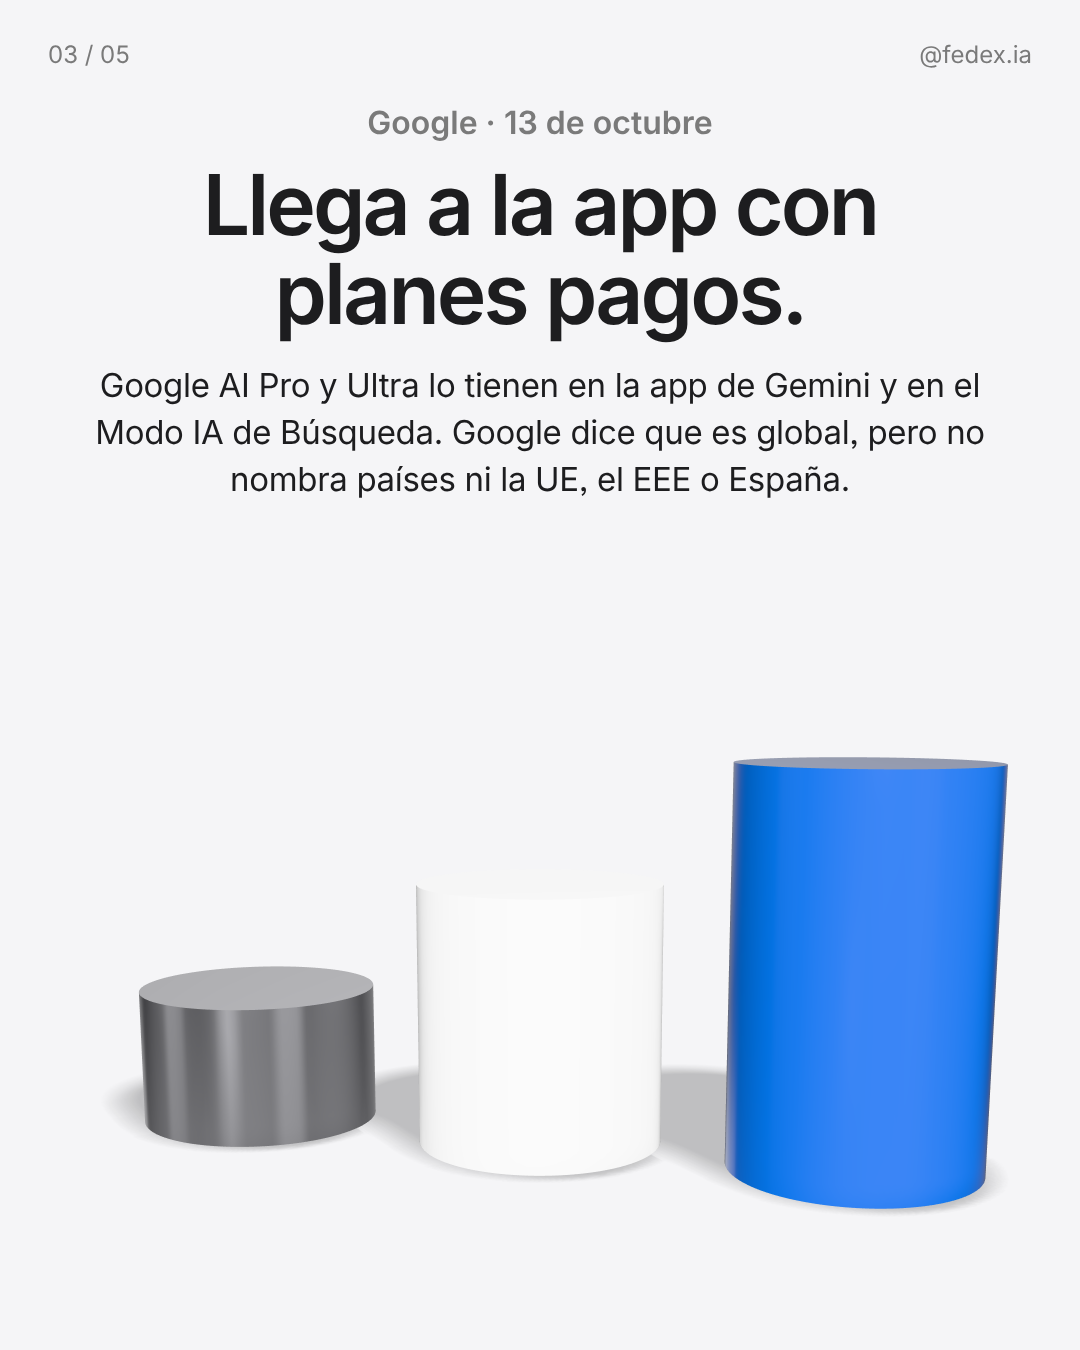
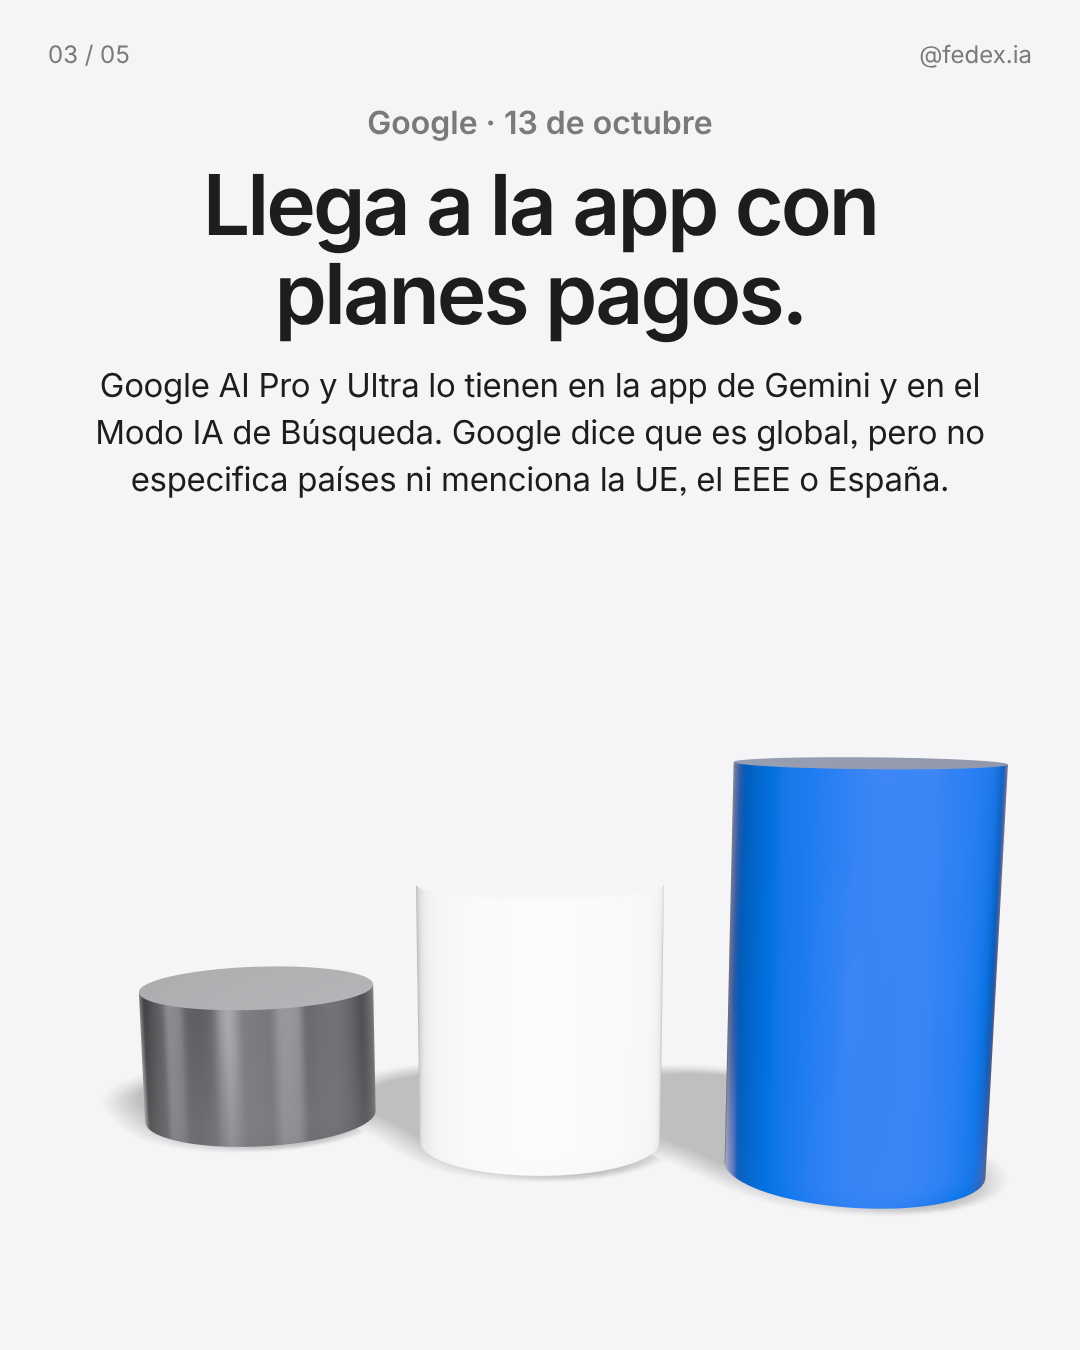
Borrador 2026-10-14: usar «no especifica países»
Claude-Session: https://claude.ai/code/session_01DW9iytVXTVn877P6QS77sb

Changed region(s): [[0.1222, 0.3422, 0.8861, 0.3733]]

diff --git a/diario/2026-10-14-diario-gemini-4-argon/copy.md b/diario/2026-10-14-diario-gemini-4-argon/copy.md
@@ -5,7 +5,7 @@ Estado: pendiente de aprobación
 ## Noticia base
 - Fecha del hecho: martes 13 de octubre de 2026 (fecha del anuncio oficial de Google). Argon ya había salido el 30 de septiembre solo para socios de ciberseguridad (Fairwind); el 13 es el lanzamiento amplio.
 - Qué es: Gemini 4 Argon, «el último modelo de frontera» de Google, pensado para «trabajo profundo» en código, finanzas, derecho, ciberseguridad y ciencia.
-- Disponibilidad: API (Google AI Studio y plataforma Gemini, nivel pago); Gemini para empresas y Antigravity (empresas y suscriptores Ultra); app de Gemini y Modo IA de Búsqueda para Google AI Pro y Ultra. Google dice «global» y no lista países ni menciona la UE, el EEE o España. Contexto de 1M de tokens por API.
+- Disponibilidad: API (Google AI Studio y plataforma Gemini, nivel pago); Gemini para empresas y Antigravity (empresas y suscriptores Ultra); app de Gemini y Modo IA de Búsqueda para Google AI Pro y Ultra. Google dice «global» y no especifica países ni menciona la UE, el EEE o España. Contexto de 1M de tokens por API.
 - Precio API: 2 USD entrada / 10 USD salida por millón de tokens como precio de lanzamiento; después del 30 de noviembre de 2026, 4 / 20.
 - Oficial: https://blog.google/innovation-and-ai/models-and-research/gemini-models/introducing-gemini-4-argon/
 - Prensa: https://tech.slashdot.org/story/26/10/13/1643231/google-launches-flagship-ai-model-gemini-4-argon (reproduce la nota de Reuters)
@@ -17,16 +17,16 @@ Estado: pendiente de aprobación
 ## Slides
 1. Portada (blanco). Google lanzó su mejor modelo. Bajada: Gemini 4 Argon: quién puede usarlo y cuánto cuesta. Pastillas: Gemini 4 Argon / Desliza →. Objeto: columna grafito con esfera azul y dos cubos. Alt: Ilustración 3D de una columna grafito con una esfera azul encima, junto a un cubo perla y uno plata. Texto: Google lanzó su mejor modelo.
 2. (oscuro) Argon está pensado para trabajos largos. Según Google, rinde mejor en tareas de varios pasos de código, finanzas, derecho, ciberseguridad y ciencia. Los datos de rendimiento son de la empresa. Objeto: cuatro bloques en escalera, el más alto azul. Alt: Ilustración 3D de cuatro bloques que suben como una escalera, el último azul. Texto: Argon está pensado para trabajos largos.
-3. (gris) Llega a la app con planes pagos. Google AI Pro y Ultra lo tienen en la app de Gemini y en el Modo IA de Búsqueda. Google dice que es global, pero no nombra países ni la UE, el EEE o España. Objeto: tres cilindros de distinta altura, el más alto azul. Alt: Ilustración 3D de tres cilindros de distinta altura, plata, blanco y azul. Texto: Llega a la app con planes pagos.
+3. (gris) Llega a la app con planes pagos. Google AI Pro y Ultra lo tienen en la app de Gemini y en el Modo IA de Búsqueda. Google dice que es global, pero no especifica países ni menciona la UE, el EEE o España. Objeto: tres cilindros de distinta altura, el más alto azul. Alt: Ilustración 3D de tres cilindros de distinta altura, plata, blanco y azul. Texto: Llega a la app con planes pagos.
 4. (oscuro) Su API tiene precio de lanzamiento. Según Google, cuesta 2 dólares por millón de tokens de entrada y 10 de salida, y después del 30 de noviembre sube a 4 y 20. Si usas herramientas hechas sobre la API de Gemini, tu costo podría subir. Objeto: rampa perla con esfera azul abajo. Alt: Ilustración 3D de una rampa perla que sube, con una esfera azul en la base. Texto: Su API tiene precio de lanzamiento.
 5. Cierre (blanco). ¿Qué tarea larga le darías a Argon? Guarda el post para recordar los planes y las fechas. Pastillas: Seguí a @fedex.ia / Guardar. Fuente: blog.google. Objeto: marcador azul y tarjeta perla. Alt: Ilustración 3D de un marcador azul junto a una tarjeta perla. Texto: ¿Qué tarea larga le darías a Argon?
 
-## Caption para copiar (149 palabras + 5 hashtags)
+## Caption para copiar (146 palabras + 5 hashtags)
 
 ```text
 Google lanzó el 13 de octubre Gemini 4 Argon, al que presenta como su modelo más potente. Según la empresa, rinde mejor en tareas largas de código, finanzas, derecho, ciberseguridad y ciencia. Los datos de rendimiento son de Google.
 
-Google AI Pro y Ultra lo tienen en la app de Gemini y en el Modo IA de Búsqueda. En Antigravity, su herramienta de programación, lo tienen Ultra y las empresas. Para desarrolladores está en la API a 2 dólares por millón de tokens de entrada y 10 de salida; después del 30 de noviembre pasa a 4 y 20. Google dice que es global, pero no nombra países ni aclara si llega a la UE, el EEE o España.
+Google AI Pro y Ultra lo tienen en la app de Gemini y en el Modo IA de Búsqueda. En Antigravity, su herramienta de programación, lo tienen Ultra y las empresas. Para desarrolladores está en la API a 2 dólares por millón de tokens de entrada y 10 de salida; después del 30 de noviembre pasa a 4 y 20. Google dice que es global, pero no especifica países ni menciona la UE, el EEE o España.
 
 Si usas herramientas hechas sobre la API de Gemini, revisa cuánto te cobran desde diciembre. Guarda el post y sigue a @fedex.ia para la noticia de IA de cada día.
 
